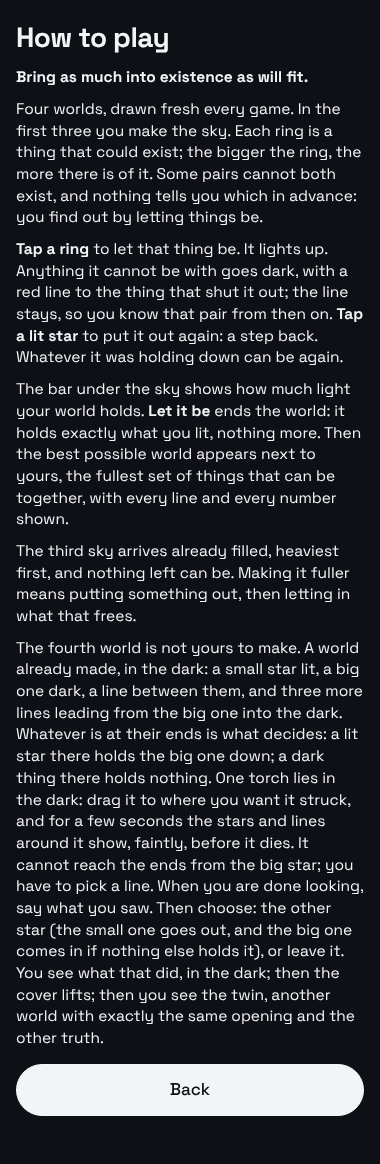
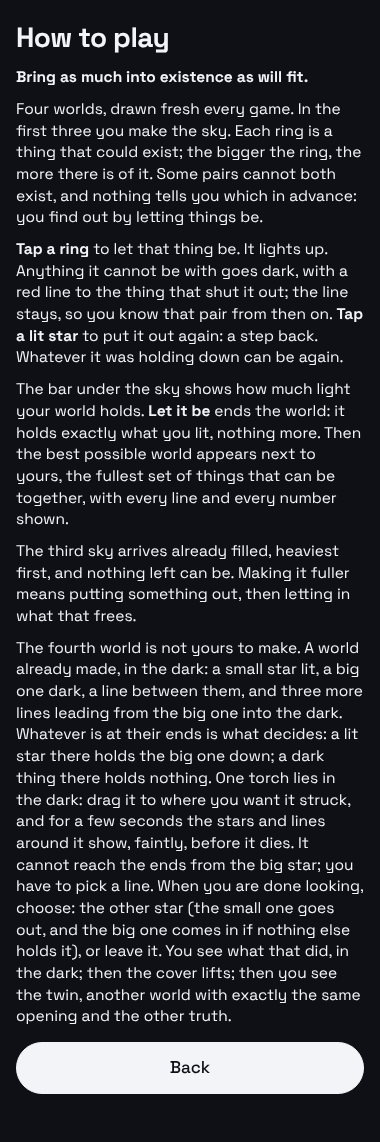
Leibniz's Worlds: rebuild after the reading question was cut (check wording fixed)
Claude-Session: https://claude.ai/code/session_018niUhx4FmbogQxtjQimhdw

diff --git a/leibniz/leibnizs-worlds.html b/leibniz/leibnizs-worlds.html
@@ -130,7 +130,6 @@ b,strong{font-weight:700}
   <p class="key" id="jkey"></p>
   <p class="say" id="jsay"></p>
   <div id="jlook"><button class="btn" id="b-done">Done looking</button></div>
-  <div id="jread" class="hid"><p class="cap" style="text-align:left;margin-bottom:6px">Did you see the big star held by something lit, at the end of one of its lines?</p><div class="row2"><button class="btn solid" id="b-r-held">Yes, held</button><button class="btn solid" id="b-r-free">Nothing held it</button><button class="btn" id="b-r-unsure">Couldn't tell</button></div></div>
   <div id="jchoose" class="hid"><p class="cap" style="text-align:left;margin-bottom:6px">Choose the other star: the small one goes out, and the big one comes in if nothing else holds it.</p><div class="row2"><button class="btn solid" id="b-other">Choose the other star</button><button class="btn solid" id="b-leave">Leave it</button></div></div>
   <div id="jlift" class="hid"><button class="btn solid" id="b-lift">Lift the cover</button></div>
   <div class="result hid" id="jresult"></div>
@@ -160,7 +159,7 @@ b,strong{font-weight:700}
   <p><b>Tap a ring</b> to let that thing be. It lights up. Anything it cannot be with goes dark, with a red line to the thing that shut it out; the line stays, so you know that pair from then on. <b>Tap a lit star</b> to put it out again: a step back. Whatever it was holding down can be again.</p>
   <p>The bar under the sky shows how much light your world holds. <b>Let it be</b> ends the world: it holds exactly what you lit, nothing more. Then the best possible world appears next to yours, the fullest set of things that can be together, with every line and every number shown.</p>
   <p>The third sky arrives already filled, heaviest first, and nothing left can be. Making it fuller means putting something out, then letting in what that frees.</p>
-  <p>The fourth world is not yours to make. A world already made, in the dark: a small star lit, a big one dark, a line between them, and three more lines leading from the big one into the dark. Whatever is at their ends is what decides: a lit star there holds the big one down; a dark thing there holds nothing. One torch lies in the dark: drag it to where you want it struck, and for a few seconds the stars and lines around it show, faintly, before it dies. It cannot reach the ends from the big star; you have to pick a line. When you are done looking, say what you saw. Then choose: the other star (the small one goes out, and the big one comes in if nothing else holds it), or leave it. You see what that did, in the dark; then the cover lifts; then you see the twin, another world with exactly the same opening and the other truth.</p>
+  <p>The fourth world is not yours to make. A world already made, in the dark: a small star lit, a big one dark, a line between them, and three more lines leading from the big one into the dark. Whatever is at their ends is what decides: a lit star there holds the big one down; a dark thing there holds nothing. One torch lies in the dark: drag it to where you want it struck, and for a few seconds the stars and lines around it show, faintly, before it dies. It cannot reach the ends from the big star; you have to pick a line. When you are done looking, choose: the other star (the small one goes out, and the big one comes in if nothing else holds it), or leave it. You see what that did, in the dark; then the cover lifts; then you see the twin, another world with exactly the same opening and the other truth.</p>
   <button class="btn solid" id="b-help-close">Back</button>
 </div></div>
 
@@ -171,7 +170,7 @@ b,strong{font-weight:700}
   <p>Why is there a world at all, and why this one? Not because of anything in the world: every state is copied from the one before, like a geometry textbook copied from an earlier copy, and however far back you go you never reach a reason why there are books at all. So the reason lies outside the series, in something that exists of necessity. Then the part this game plays: how that reason picks a world. Every possible thing has a claim to exist, a push, in proportion to how much reality there is in it. Not all possibles can exist together. What exists is the combination through which the greatest total of reality comes to be: "there is always in things a principle of determination which must be sought in maximum and minimum". Leibniz says this in the words of a game: "certain games where all the spaces on the board are to be filled according to certain rules, and where, unless you use some skill, you will in the end be excluded from certain spaces and forced to leave more spaces empty than you could have or wished to". He adds the picture of heavy bodies that settle into the arrangement of greatest total descent.</p>
   <p>From the maximum follows his answer to the oldest objection, that the world is full of suffering and waste. The best whole is not the sum of the best parts. Cover all but a corner of a beautiful painting and you see "a confused chaos of colours"; dissonances make the music better; bitter things should be mixed in with the sweet. Afflictions are "stepping back in order to make a leap forward with greater force" (he writes the French <i>reculer pour mieux sauter</i> in the margin); when a part of the world is destroyed, "this very destruction and oppression is useful for achieving something greater, so that in a way we profit from our very loss". And since there is always more that is possible than has been made, progress never ends. He also tells the story of an ape that carried the infant King Christian of Denmark to the edge of a roof and, when everyone was frightened, put him back in his cradle laughing: we enjoy the danger for the restoring.</p>
   <h3>What the game does</h3>
-  <p>It takes Leibniz's rule, not his board. Leibniz's possibles fail to exist together because of what they are, not because they overlap; so there is no board, and nothing is placed. A sky holds the things that could exist; each has a weight, how much there is of it, shown by its size; some pairs cannot both be. Nothing tells you which pairs in advance: a line appears once one thing has shut another out, and the numbers appear only when a world has ended. You decide what exists, and a world holds exactly what you lit, nothing more. Every sky is drawn fresh for each game, and each draw is checked before it is shown for the one thing its world is there to show. On the first sky, more wants to be than can be together, so even the best world leaves things dark. On the second, the grandest thing is the trap: it cannot be with several lesser things that together hold more than it does. On the third, the sky comes already filled by weight, heaviest first, and nothing left can be; the only way to a fuller world is to put something out and let in what that frees, and the thing to put out is never the biggest. After each sky the best possible world is shown next to yours, found by an exact search over every set. The fourth world is Leibniz's covered picture played: a world already made, in the dark, a small lit star holding a big dark one down, and three more lines leading from the big one into the dark. What is at their ends decides: a lit star there holds the big one down, a dark thing there holds nothing. One torch lies in the dark: drag it to where you want it struck, and for a few seconds the stars and lines around it show faintly before it dies; from the big star it cannot reach the ends, so you pick a line. When you are done looking you say what you saw; then you choose the other star, so that the small one goes out and the big one may be, or leave the world; you see what that did, still in the dark; then the cover lifts. Then the twin is shown beside it: another world with exactly the same opening and the other truth. In one of the two, two of the lines end in lit stars worth more than the big one together, so choosing the other star loses the small one and gains nothing; in the other all three end in dark things, nothing but the small one holds the big one, and choosing the other star lets it in. Which of the two you get is drawn at random. The evidence runs one way: a torch can show the big one held, for certain, and can never show it free, since the lines it did not reach stay dark.</p>
+  <p>It takes Leibniz's rule, not his board. Leibniz's possibles fail to exist together because of what they are, not because they overlap; so there is no board, and nothing is placed. A sky holds the things that could exist; each has a weight, how much there is of it, shown by its size; some pairs cannot both be. Nothing tells you which pairs in advance: a line appears once one thing has shut another out, and the numbers appear only when a world has ended. You decide what exists, and a world holds exactly what you lit, nothing more. Every sky is drawn fresh for each game, and each draw is checked before it is shown for the one thing its world is there to show. On the first sky, more wants to be than can be together, so even the best world leaves things dark. On the second, the grandest thing is the trap: it cannot be with several lesser things that together hold more than it does. On the third, the sky comes already filled by weight, heaviest first, and nothing left can be; the only way to a fuller world is to put something out and let in what that frees, and the thing to put out is never the biggest. After each sky the best possible world is shown next to yours, found by an exact search over every set. The fourth world is Leibniz's covered picture played: a world already made, in the dark, a small lit star holding a big dark one down, and three more lines leading from the big one into the dark. What is at their ends decides: a lit star there holds the big one down, a dark thing there holds nothing. One torch lies in the dark: drag it to where you want it struck, and for a few seconds the stars and lines around it show faintly before it dies; from the big star it cannot reach the ends, so you pick a line. When you are done looking you choose the other star, so that the small one goes out and the big one may be, or leave the world; you see what that did, still in the dark; then the cover lifts. Then the twin is shown beside it: another world with exactly the same opening and the other truth. In one of the two, two of the lines end in lit stars worth more than the big one together, so choosing the other star loses the small one and gains nothing; in the other all three end in dark things, nothing but the small one holds the big one, and choosing the other star lets it in. Which of the two you get is drawn at random. The evidence runs one way: a torch can show the big one held, for certain, and can never show it free, since the lines it did not reach stay dark.</p>
   <h3>What kind of mechanism this is</h3>
   <p><b>Toy.</b> The game runs a model built to illustrate the paper's argument, and where the argument had to be made exact, the toy chose: a thing's reality is a number (Leibniz: "perfection is nothing other than quantity of essence"); the only incompatibility is a listed pair that cannot both exist; the skies, their weights and their pairs are drawn by a generator of ours, each draw proved by the headless check to hold the one point its world is there to show, over hundreds of draws.</p>
   <ul class="ovlist">
@@ -539,9 +538,8 @@ function torchSaw(J, j) {
   return { held: held, dark: dark };
 }
 function torchSawHolders(J, j) { return torchSaw(J, j).held; }
-// What the player says they saw: 'lines', 'none' or 'unsure'. Ends the looking.
-function read(J, j, answer) { var s = J.skies[j]; if (s.reading || s.act) return false; s.reading = answer; return true; }
-function readingWord(a) { return a === 'held' ? 'you saw it held' : a === 'free' ? 'you saw nothing holding it' : "you couldn't tell"; }
+// Done looking: ends the torch step (design, 15 Nov, late: the reading question went; the choice says what was believed).
+function read(J, j) { var s = J.skies[j]; if (s.reading || s.act) return false; s.reading = 'done'; return true; }
 // Decide: 'other' chooses the other star (the small one goes out; the big one comes in if nothing else holds it);
 // 'leave' leaves the world. A reading must have been given first.
 function decide(J, j, act) {
@@ -564,7 +562,7 @@ function lampReveal(J, j) {
     : 'The whole: all three lines from the ' + bg.w + ' led to dark things, and dark things hold nothing. Nothing but the ' + sm.w + ' held it down. With the ' + sm.w + ' out and the ' + bg.w + ' in, the sky holds ' + s.best.light + ' instead of ' + s.before + '. This world was ' + (s.best.light - s.before) + ' short.';
   var saw = torchSaw(J, j), n = s.torches.length;
   var used = n === 0 ? 'You struck no torch.' : saw.held ? 'Your torch reached a lit star at the end of a line: the big one was held, and that could be known.' : saw.dark ? 'Your torch reached a dark end: that line held nothing, and the others stayed unknown.' : 'Your torch reached no end of any line.';
-  var said = ' You said ' + readingWord(s.reading) + (s.reading === 'held' ? (s.full ? ', and it was.' : ', but it was not.') : s.reading === 'free' ? (s.full ? ', but it was held, out of the light.' : ', and nothing did.') : '.');
+  var said = s.act === 'other' ? (s.full ? ' You bet that nothing held it, and something did, out of the light.' : ' You bet that nothing held it, and nothing did.') : (s.full ? ' You let it stand, and it was held.' : ' You let it stand, and nothing was holding it but the small star.');
   var line = s.act === 'other' ? (s.came.length ? 'You chose the other star: the ' + sm.w + ' went out and the ' + bg.w + ' came in, ' + (s.after - s.before) + ' more light than before.'
       : 'You chose the other star: the ' + sm.w + ' went out and the ' + bg.w + ' stayed dark, ' + (s.before - s.after) + ' less light than before.')
     : (s.full ? 'You left it, and it holds all it could.' : 'You left it, and it holds ' + s.after + ' where it could hold ' + s.best.light + '.');
@@ -620,7 +618,7 @@ function verdict(game) {
     return 'World 3: ' + (w.stepsBack === 0 ? 'you put nothing out, and the world stayed as weight had made it.' : 'you stepped back ' + (w.stepsBack === 1 ? 'once' : w.stepsBack === 2 ? 'twice' : w.stepsBack + ' times') + ', and the world ended ' + (L === B ? 'full: the step back was the way forward.' : shortWords(L, B) + '.'));
   });
   var J = game.judge, s4 = J.skies[0];
-  var looked = (s4.torches.length === 0 ? 'without a torch' : 'by torchlight') + ' (' + readingWord(s4.reading) + ')';
+  var sw = torchSaw(J, 0), looked = s4.torches.length === 0 ? 'without a torch' : sw.held ? 'having seen it held' : sw.dark ? 'having seen one line end in the dark' : 'with a torch that reached no end';
   var what = s4.act === 'other' ? 'chose the other star' : 'left it';
   var got = s4.act === 'other' ? (s4.came.length ? 'and the big one came in' : 'and the big one stayed dark') : (s4.full ? 'and it was as full as it can be' : 'and it stayed short');
   found.push('World 4: a small star holding a big one down, three lines leading into the dark; ' + looked + ' you ' + what + ', ' + got + '. Its twin, with the same opening, was the other kind of world: ' + (s4.full ? 'short, with nothing but the small star in the way.' : 'as full as it can be, the big one held at the end of its lines.'));
@@ -634,7 +632,7 @@ function verdict(game) {
 var M = { CONFIG: CONFIG, newGame: newGame, makeWorld: makeWorld, makeLampWorld: makeLampWorld, genWorld1: genWorld1, genWorld2: genWorld2, genWorld3: genWorld3, genLamp: genLamp,
   mulberry32: mulberry32, letBe: letBe, putOut: putOut, letItBe: letItBe, canEnd: canEnd, result: result, verdict: verdict, solve: solve, solveWith: solveWith,
   light: light, total: total, lit: lit, star: star, conflicts: conflicts, name: name, list: list, biggest: biggest, shortWords: shortWords, pairKnown: pairKnown,
-  layoutOk: layoutOk, playGreedy: playGreedy, playRandom: playRandom, playBest: playBest, strike: strike, torchSawHolders: torchSawHolders, torchSaw: torchSaw, read: read, readingWord: readingWord, decide: decide, consequence: consequence, lampReveal: lampReveal, segDist: segDist };
+  layoutOk: layoutOk, playGreedy: playGreedy, playRandom: playRandom, playBest: playBest, strike: strike, torchSawHolders: torchSawHolders, torchSaw: torchSaw, read: read, decide: decide, consequence: consequence, lampReveal: lampReveal, segDist: segDist };
 if (typeof module !== 'undefined' && module.exports) module.exports = M; else root.LeibnizMechanism = M;
 })(typeof window !== 'undefined' ? window : this);
 
@@ -792,7 +790,7 @@ function startJudge(j) {
   $('jintro').textContent = JINTRO[0];
   $('jnow').textContent = 'A world already made.';
   $('jsay').textContent = 'Leibniz: men born in a salt mine take their torchlight for all the light there is. You have one.';
-  ['jlook', 'jread', 'jchoose', 'jlift', 'jresult'].forEach(function (id) { $(id).classList.add('hid'); }); $('jlook').classList.remove('hid'); $('jresult').innerHTML = '';
+  ['jlook', 'jchoose', 'jlift', 'jresult'].forEach(function (id) { $(id).classList.add('hid'); }); $('jlook').classList.remove('hid'); $('jresult').innerHTML = '';
   function key() {
     if (burning) $('jkey').textContent = 'The torch burns. Look.';
     else if (s.reading) $('jkey').textContent = '';
@@ -819,14 +817,12 @@ function startJudge(j) {
       if (el < full + fade) requestAnimationFrame(tick); else { burning = false; draw(null); }
     })(t0);
   };
-  $('b-done').onclick = function () { if (burning) return; $('jlook').classList.add('hid'); $('jread').classList.remove('hid'); $('jnow').textContent = 'What did you see?'; $('jsay').textContent = 'The torchlight is gone. Say what you made out.'; $('jread').scrollIntoView({ block: 'end', behavior: 'smooth' }); };
-  var reading = function (a) {
-    if (!M.read(J, j, a)) return;
-    $('jread').classList.add('hid'); $('jchoose').classList.remove('hid'); draw(null);
-    $('jnow').textContent = 'Would you change this?'; $('jsay').textContent = 'The small star holds the big one down. Three lines lead from the big one into the dark; what is at their ends, you saw or you did not.';
+  $('b-done').onclick = function () {
+    if (burning || !M.read(J, j)) return;
+    $('jlook').classList.add('hid'); $('jchoose').classList.remove('hid'); draw(null);
+    $('jnow').textContent = 'Would you change this?'; $('jsay').textContent = 'The small star holds the big one down. Three lines lead from the big one into the dark; what is at their ends, you saw or you did not. A lit star there holds the big one; a dark thing there holds nothing.';
     $('jchoose').scrollIntoView({ block: 'end', behavior: 'smooth' });
   };
-  $('b-r-held').onclick = function () { reading('held'); }; $('b-r-free').onclick = function () { reading('free'); }; $('b-r-unsure').onclick = function () { reading('unsure'); };
   var decide = function (act) {
     var r = M.decide(J, j, act); if (!r) return;
     $('jchoose').classList.add('hid');

diff --git a/leibniz/calibration.js b/leibniz/calibration.js
@@ -142,7 +142,7 @@ check('solver exact on every drawn sky (' + SEEDS * 5 + ' skies)', games.every(f
   check('words: 12 of 19 is about a third short', M.shortWords(12, 19) === 'about a third short', M.shortWords(12, 19));
   var g = M.newGame(3); M.playGreedy(g.worlds[0]); M.playGreedy(g.worlds[1]); M.letItBe(g.worlds[2]); M.strike(g.judge, 0, 100, 100); M.read(g.judge, 0); M.decide(g.judge, 0, 'other');
   var v = M.verdict(g);
-  check('verdict has four found lines and a world-4 line about the torch and the twin', v.found.length === 4 && /World 4: .*torch.*twin/.test(v.found[3]), v.found[3]);
+  check('verdict has four found lines and a world-4 line ending on the twin', v.found.length === 4 && /World 4: .*twin/.test(v.found[3]), v.found[3]);
   var g3 = M.newGame(4); M.playBest(g3.worlds[0]); M.playBest(g3.worlds[1]); M.playBest(g3.worlds[2]); M.read(g3.judge, 0); M.decide(g3.judge, 0, 'leave');
   check('verdict head for the best player', M.verdict(g3).head === 'All three of your skies are as full as they can be.', M.verdict(g3).head);
   check('no sky has two stars of one colour', games.every(function (g) { return g.worlds.concat(g.judge.skies).every(function (w) { var ids = w.stars.map(function (s) { return s.id; }); return ids.length === new Set(ids).size; }); }));
